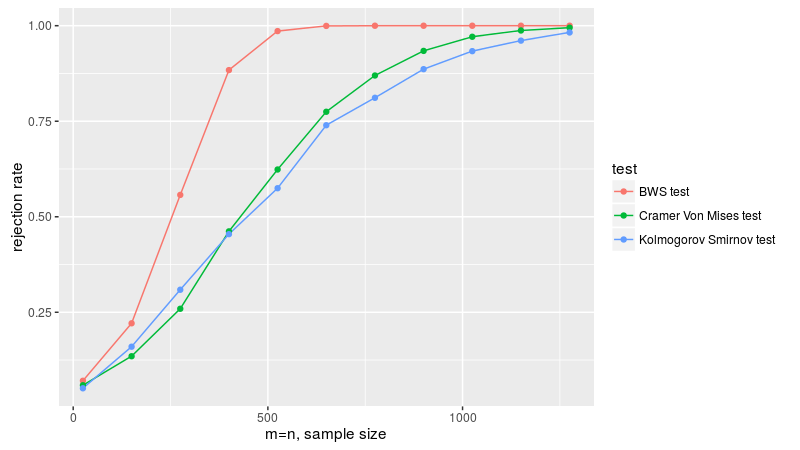
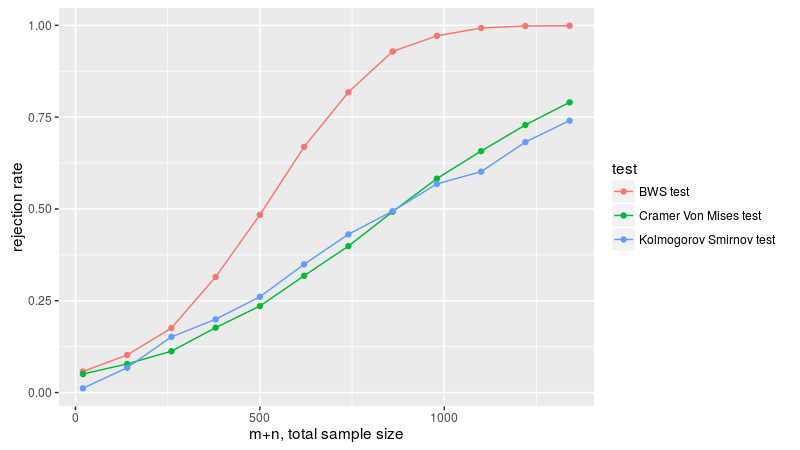
fixing figure 3B to match Baumgartner

diff --git a/README.md b/README.md
@@ -4,6 +4,9 @@
 
 [![Build Status](https://travis-ci.org/shabbychef/BWStest.png)](https://travis-ci.org/shabbychef/BWStest)
 [![codecov.io](http://codecov.io/github/shabbychef/BWStest/coverage.svg?branch=master)](http://codecov.io/github/shabbychef/BWStest?branch=master)
+[![CRAN](http://www.r-pkg.org/badges/version/BWStest)](http://cran.rstudio.com/package=BWStest) 
+[![Downloads](http://cranlogs.r-pkg.org/badges/BWStest?color=green)](http://www.r-pkg.org/pkg/BWStest)
+[![Total](http://cranlogs.r-pkg.org/badges/grand-total/BWStest?color=green)](http://www.r-pkg.org/pkg/BWStest)
 ![RCpp](https://img.shields.io/badge/RCpp-inside-blue.svg)
 
 Performs the [Baumgartner-Weiß-Schindler 2-sample test](http://doai.io/10.2307/2533862) of equal probability
@@ -14,11 +17,14 @@ distributions.
 ## Installation
 
 This package can be installed 
+from CRAN, 
 via [drat](https://github.com/eddelbuettel/drat "drat"), or
 from github:
 
 
 ```r
+# via CRAN:
+install.packages("BWStest")
 # via drat:
 if (require(drat)) {
     drat:::add("shabbychef")
@@ -101,7 +107,7 @@ Looks good to me!
 
 ## Under the alternative
 
-Here we replicate figure 2A of Baumgartner _et al._. We draw two samples from the normal distribution,
+Here we replicate figure 2A of Baumgartner _et al._ We draw two samples from the normal distribution,
 both with unit standard deviation, letting _a_ be the difference in means. 
 We check the empirical rejection rate at the 0.05 level for a few different tests.
 As in Baumgartner, we find that the lowly t-test
@@ -163,7 +169,7 @@ print(ph)
 
 <img src="github_extra/figure/fig_two_A-1.png" title="plot of chunk fig_two_A" alt="plot of chunk fig_two_A" width="700px" height="500px" />
 
-Here we replicate figure 2B of Baumgartner _et al._. We draw two samples from the normal distribution,
+Here we replicate figure 2B of Baumgartner _et al._ We draw two samples from the normal distribution,
 both with zero mean, one with unit standard deviation, the other with standard deviation of _sigma_.
 We compute the empirical rejection rate at the 0.05 level, dropping the t-test
 since it is not relevant for this formulation.
@@ -222,7 +228,7 @@ print(ph)
 
 <img src="github_extra/figure/fig_two_B-1.png" title="plot of chunk fig_two_B" alt="plot of chunk fig_two_B" width="700px" height="500px" />
 
-Here we replicate figure 3A of Baumgartner _et al._. We draw two samples from the exponential distribution,
+Here we replicate figure 3A of Baumgartner _et al._ We draw two samples from the exponential distribution,
 letting _l_ be the ratio of the rate parameters of the two populations.
 We compute the empirical rejection rate at the 0.05 level.
 As in Baumgartner, 
@@ -279,22 +285,21 @@ print(ph)
 
 <img src="github_extra/figure/fig_three_A-1.png" title="plot of chunk fig_three_A" alt="plot of chunk fig_three_A" width="700px" height="500px" />
 
-Here we replicate figure 3B of Baumgartner _et al._. We draw two samples, one from the normal distribution
+Here we replicate figure 3B of Baumgartner _et al._ We draw two samples, one from the normal distribution
 with zero mean and varianced one-twelth, the other uniformly on -0.5 to 0.5. We take equal sample sizes
 from these two populations, then vary the sample size, checking the
 empirical rejection rate at the 0.05 level. Since the first two moments are equal, the Wilcoxon test
 is useless here, and not applied.
-As in Baumgartner, 
-we find the BWS test is the most powerful, followed by the KS test and Cramer-Von Mises tests. 
-The power found here seems to be much higher than that found by Baumgartner, with near 100% rejection
-rate for a sample size of around 600, while Baumgartner finds those kinds of rejection rates at around
-a sample size of 1200. I theorize that Baumgartner _et al._ are plotting the _sum_ of the sample sizes
-on the _x_ axis.
+As in Baumgartner, we find the BWS test is the most powerful, 
+followed by the KS test and Cramer-Von Mises tests. 
+Based on the power plots here, I theorize that Baumgartner _et al._ are plotting the _total_ sample
+sizes on the _x_ axis, that is, drawing _n_ from both distributions, then plotting empirical power
+versus _2n_. We follow that convention, which makes the plots match those of Baumgartner.
 
 
 ```r
 n.sim <- 10000
-mvals <- seq(25, 1275, by = 125)
+mvals <- seq(10, 670, by = 60)
 alpha <- 0.05
 
 # this is archived on CRAN, unfortunately:
@@ -326,7 +331,7 @@ simul <- sapply(mvals, function(mnsize) {
 }, simplify = "matrix")
 
 Drejrates <- data.frame(t(simul))
-Drejrates$ssize <- mvals
+Drejrates$ssize <- 2 * mvals
 ```
 
 ```r
@@ -335,7 +340,7 @@ plotdf <- tidyr::gather(Drejrates, "test", "rejection_rate",
     test))
 ph <- ggplot(plotdf, aes(x = ssize, y = rejection_rate, 
     group = test, colour = test)) + geom_line() + geom_point() + 
-    labs(x = "m=n, sample size", y = "rejection rate")
+    labs(x = "m+n, total sample size", y = "rejection rate")
 print(ph)
 ```
 
